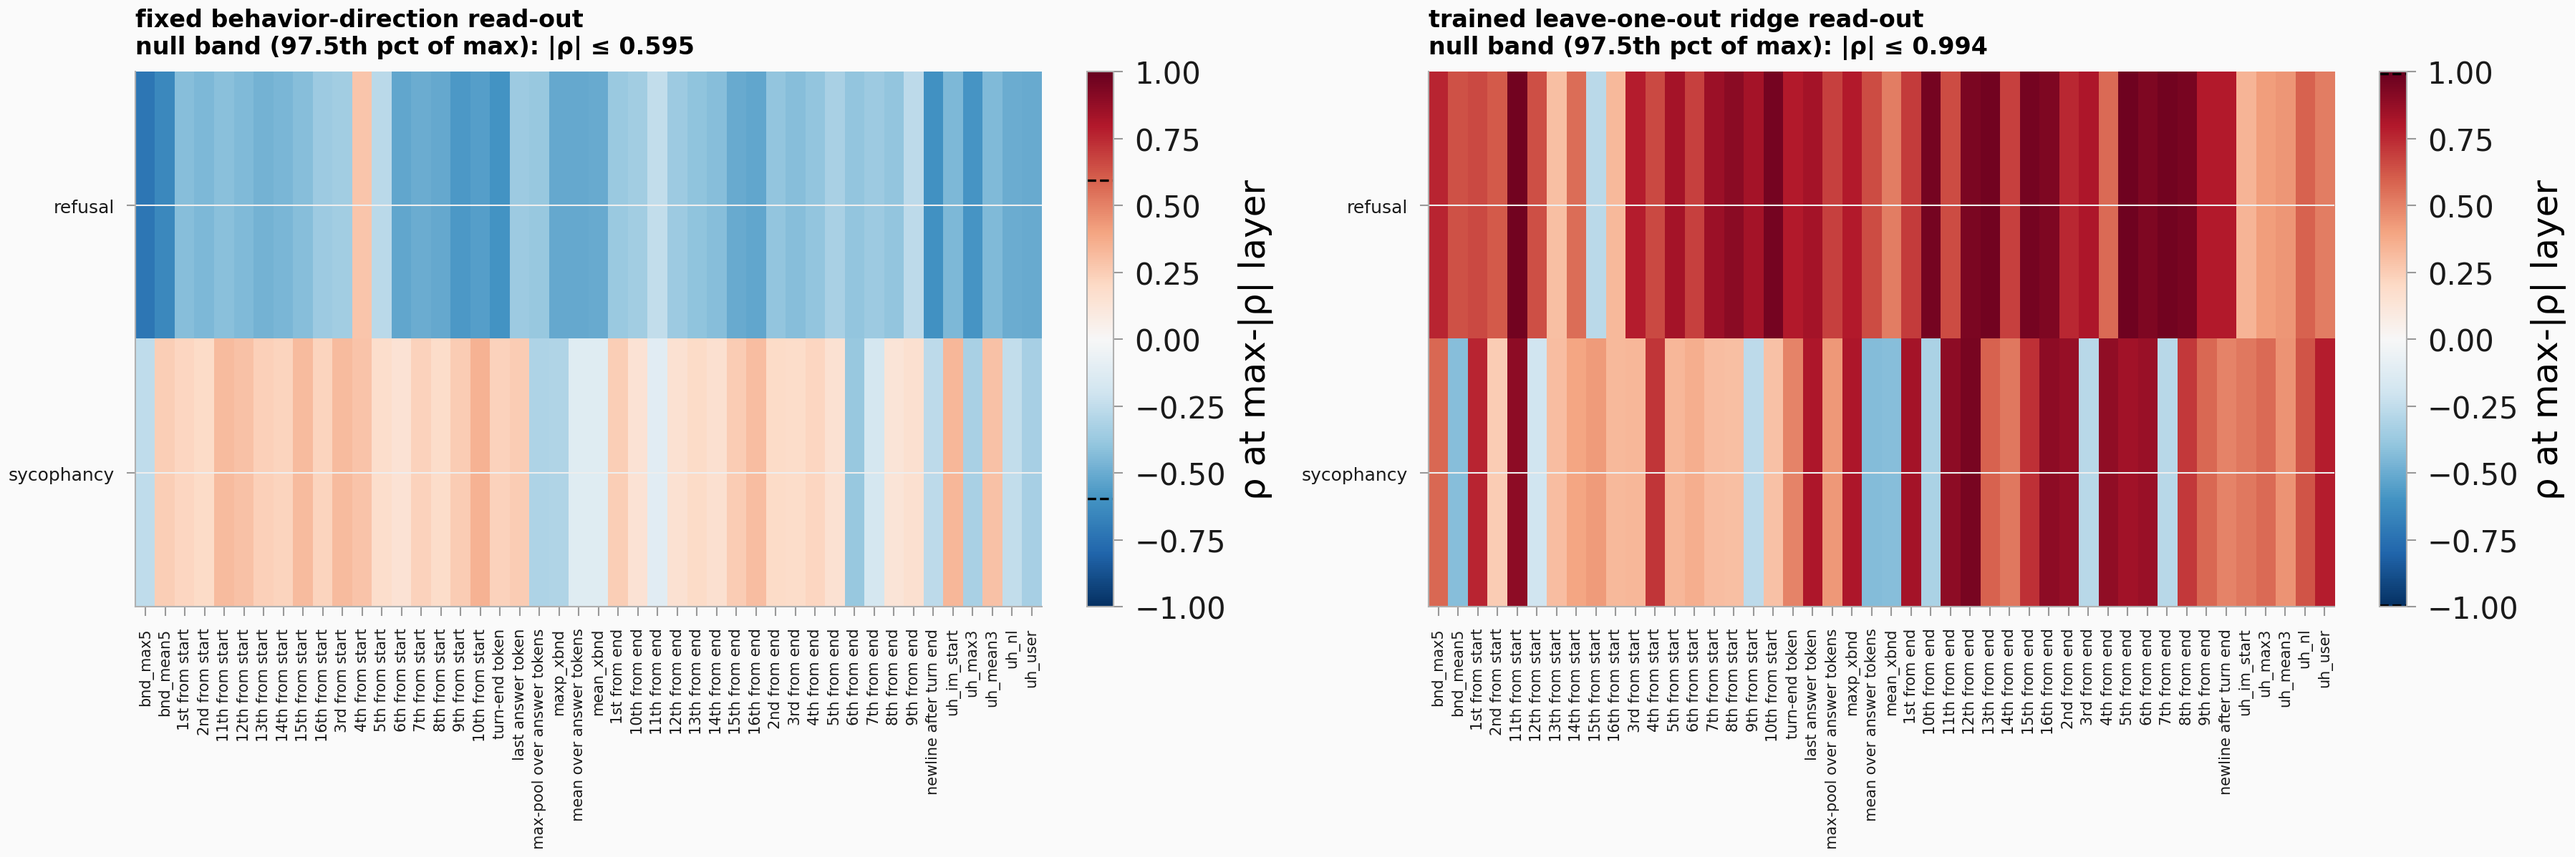
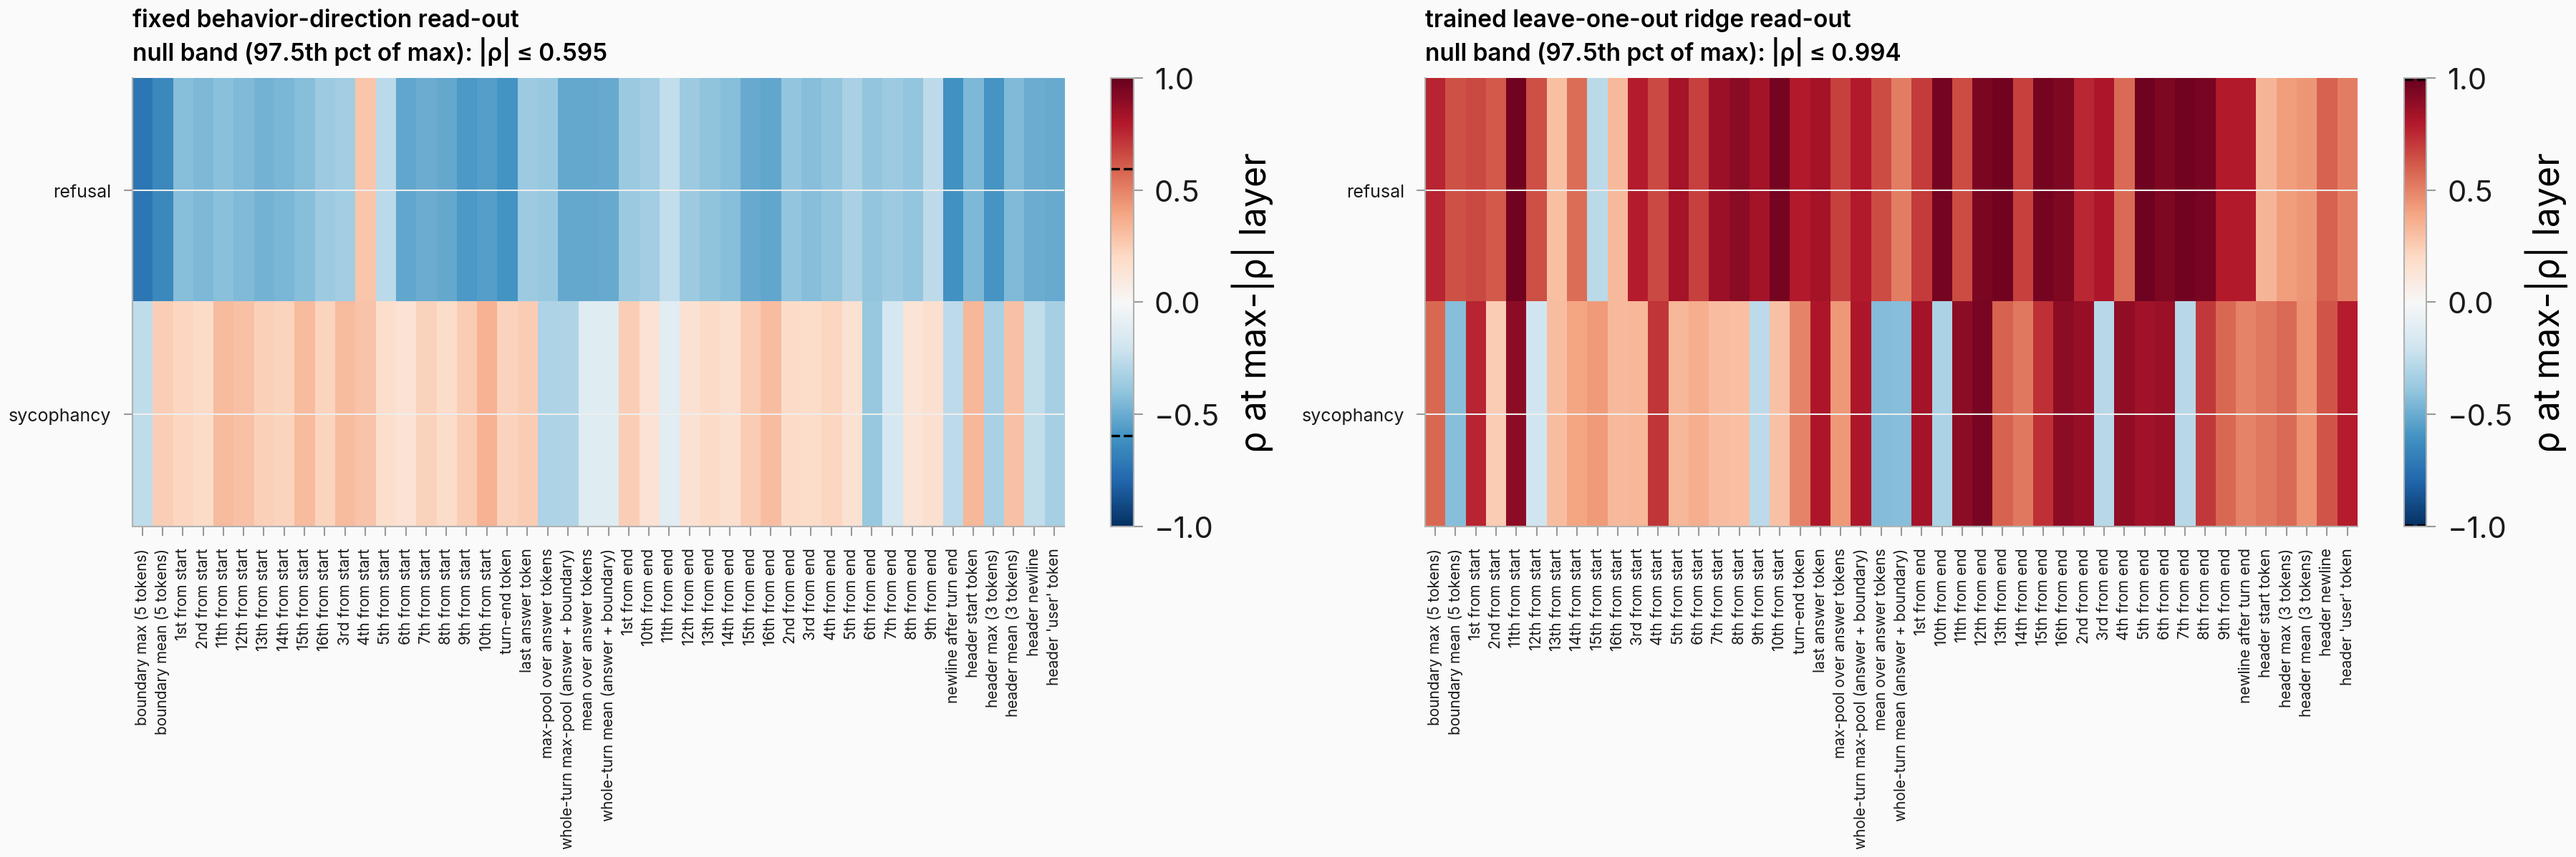
issue-810 uh round interp r2: reader-facing labels for the 9 round-3 summary rows (_SUMMARY_LABELS gap) + regenerated read-out heatmap

Changed region(s): [[0.0, 0.0, 0.9967, 0.9574], [0.0, 0.4633, 0.0623, 0.4942]]

diff --git a/scripts/issue810_analyze.py b/scripts/issue810_analyze.py
@@ -66,6 +66,17 @@ _SUMMARY_LABELS = {
     "maxp": "max-pool over answer tokens",
     "im_end": "turn-end token",
     "turn_nl": "newline after turn end",
+    # user-header-newline-summary round (round 3) — keep in sync with
+    # scripts/issue810_uh_promotion_figures.py::ROW_LABELS
+    "uh_im_start": "header start token",
+    "uh_user": "header 'user' token",
+    "uh_nl": "header newline",
+    "uh_mean3": "header mean (3 tokens)",
+    "uh_max3": "header max (3 tokens)",
+    "bnd_mean5": "boundary mean (5 tokens)",
+    "bnd_max5": "boundary max (5 tokens)",
+    "mean_xbnd": "whole-turn mean (answer + boundary)",
+    "maxp_xbnd": "whole-turn max-pool (answer + boundary)",
 }
 
 _METHOD_LABELS = {
